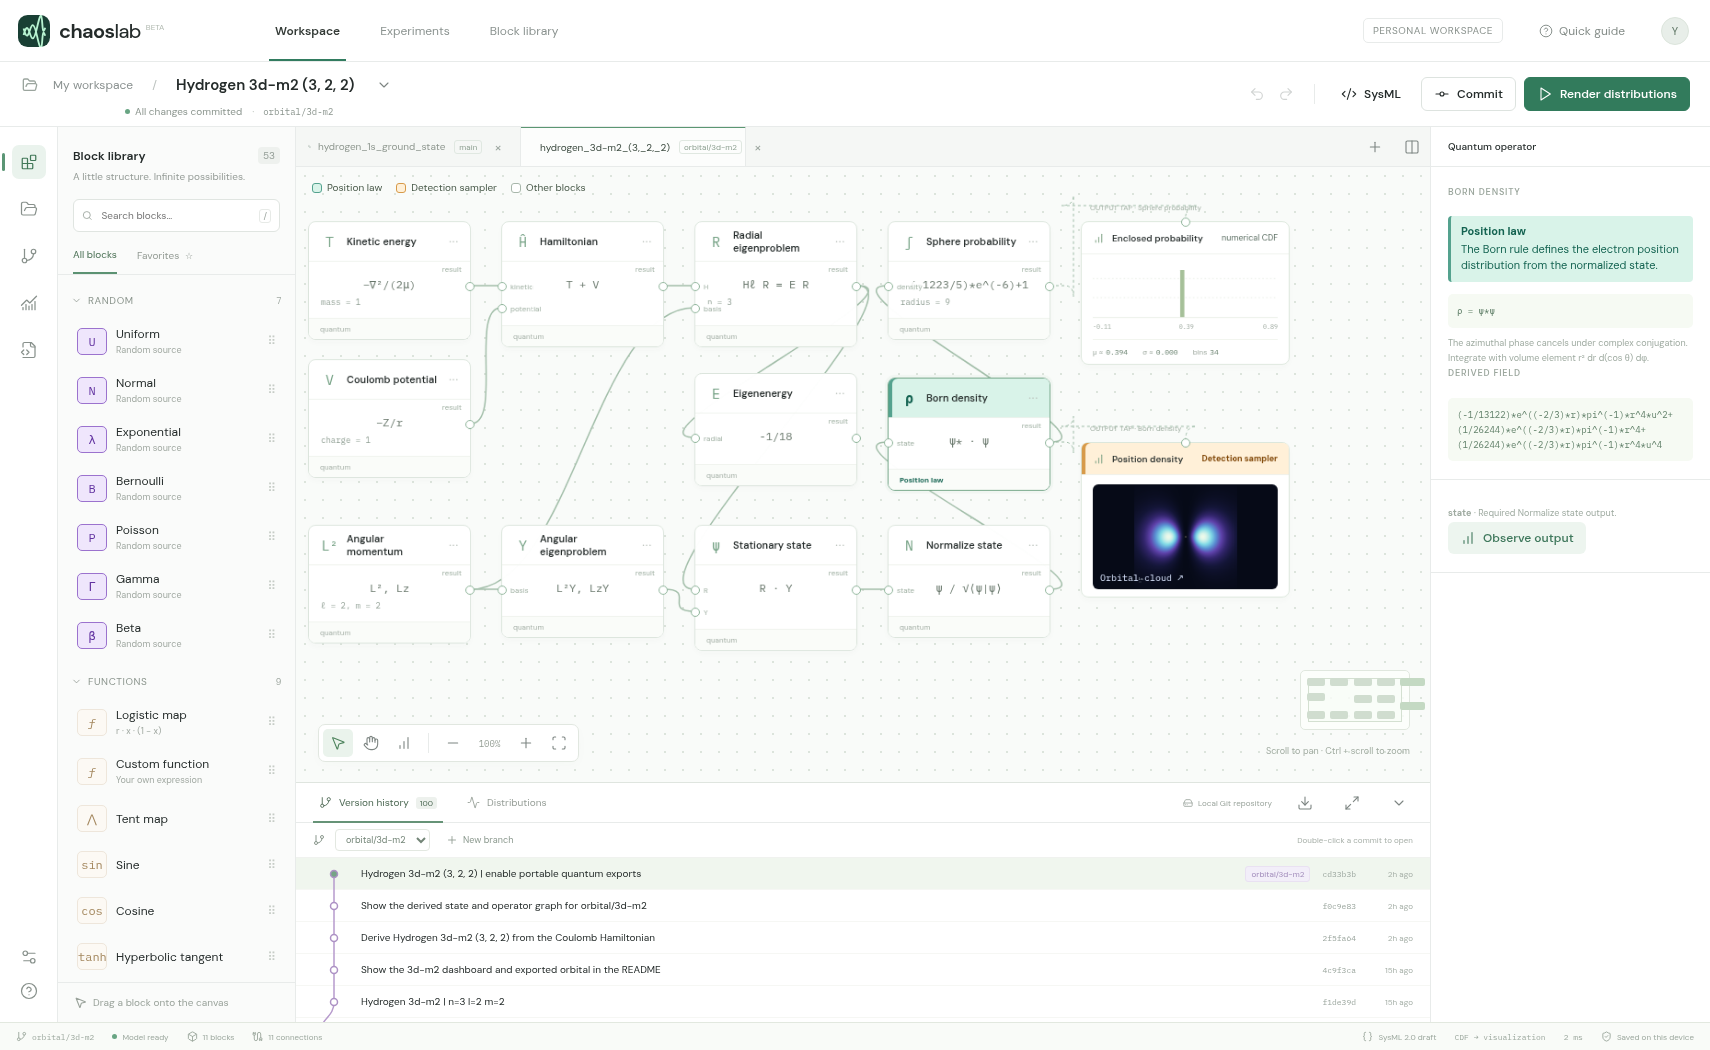
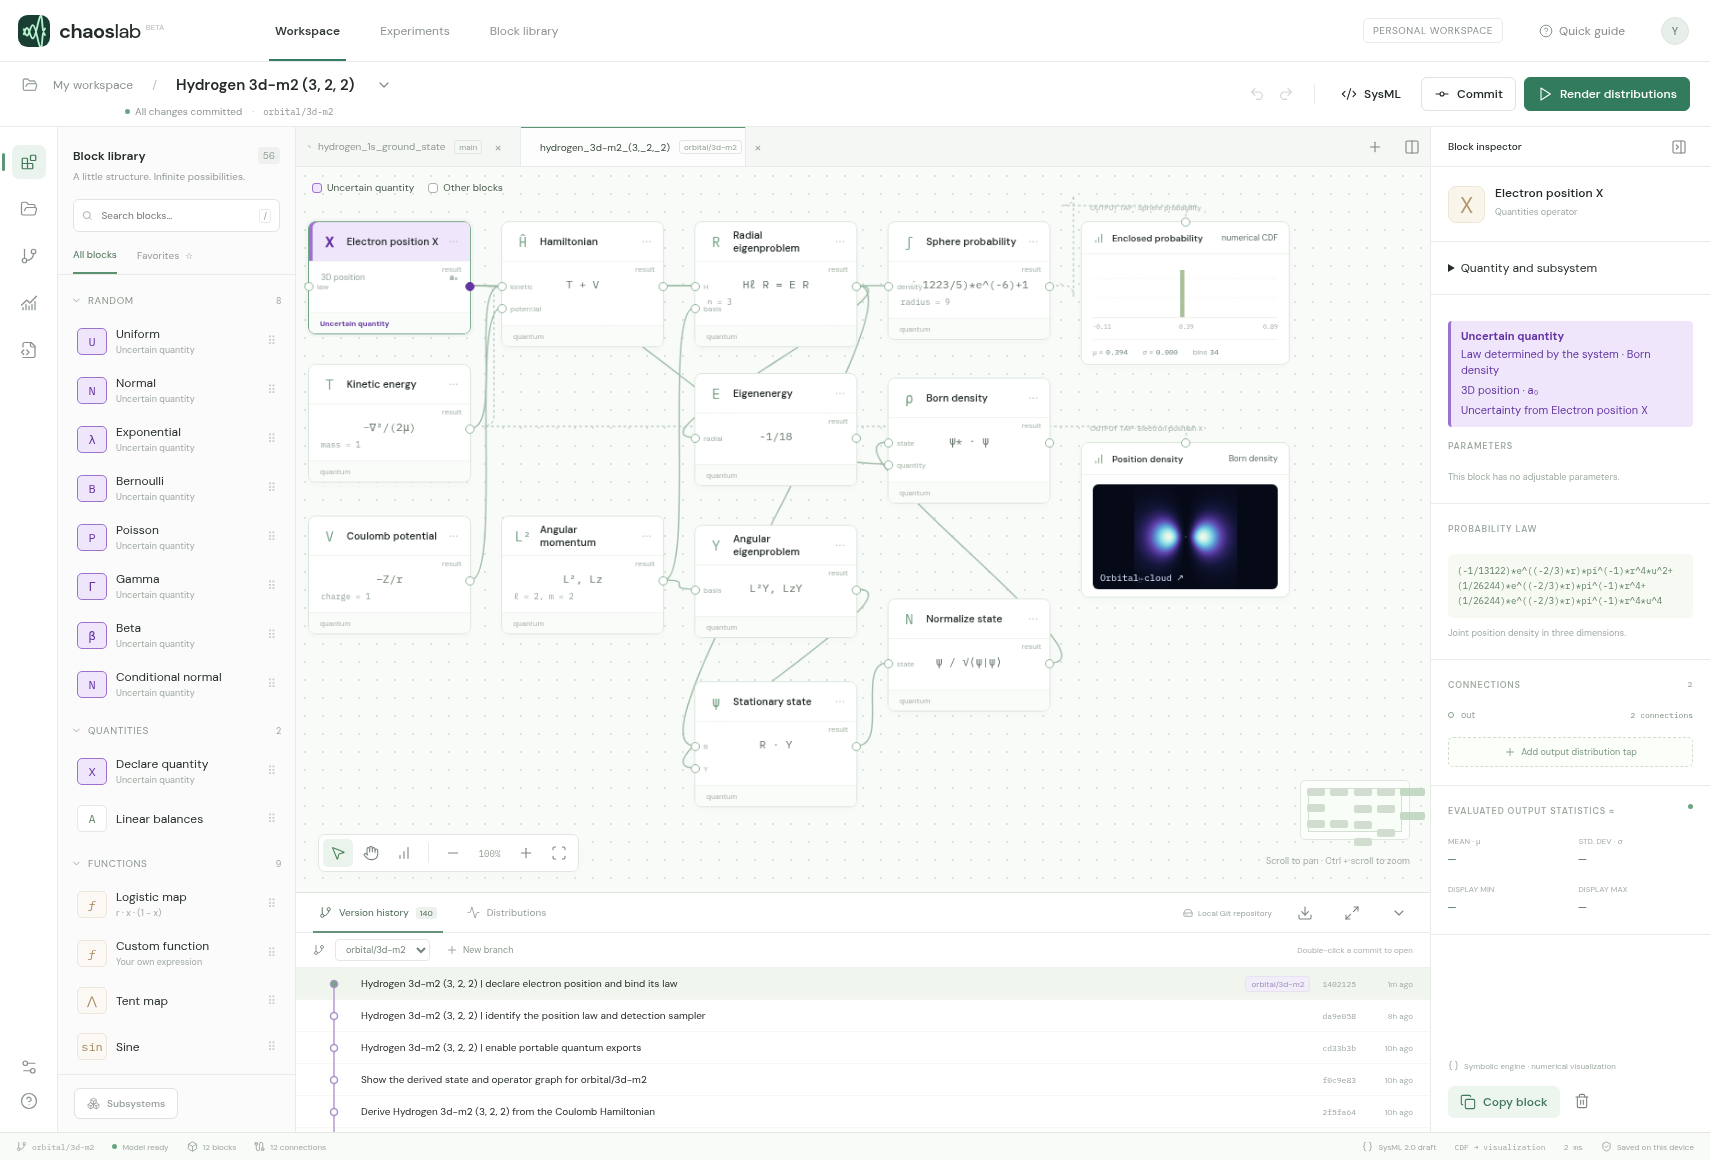
Show the position declaration and its law provider for orbital/3d-m2

diff --git a/studio.py b/studio.py
@@ -10,7 +10,7 @@ import tempfile
 import webbrowser
 
 ROOT = Path(__file__).resolve().parent
-STUDIO_REV = "5cbb600c6ee5baa24d159ddc6c974d68eb68f653"
+STUDIO_REV = "515ba96842af71b90f41019a508548a96e802665"
 STUDIO_REPO = "https://github.com/wa200508/chaos_lab.git"
 
 

diff --git a/README.md b/README.md
@@ -6,7 +6,7 @@ Open **Version history** in Chaos Lab to explore the 20 hydrogen designs in this
 
 The connected Hamiltonian and eigenstate solvers give $E=-1/18$ Hartree for this state.
 
-The purple **Electron position X** block declares the three-dimensional quantity in Bohr radii. Open its inspector to see **Born density** as its law provider. The sphere measurement and spatial tap both observe X. Projected detections draw from the final law; the central slice evaluates the density directly.
+The purple **Electron position X** block declares the three-dimensional quantity in Bohr radii. Open its inspector to see **Born density** as its law provider. The sphere measurement and spatial tap both observe X. Projected detections draw from the final law. The central slice evaluates the density directly.
 
 ![Chaos Lab dashboard with the 3d model, m = 2, open in version history](dashboard.png)
 
